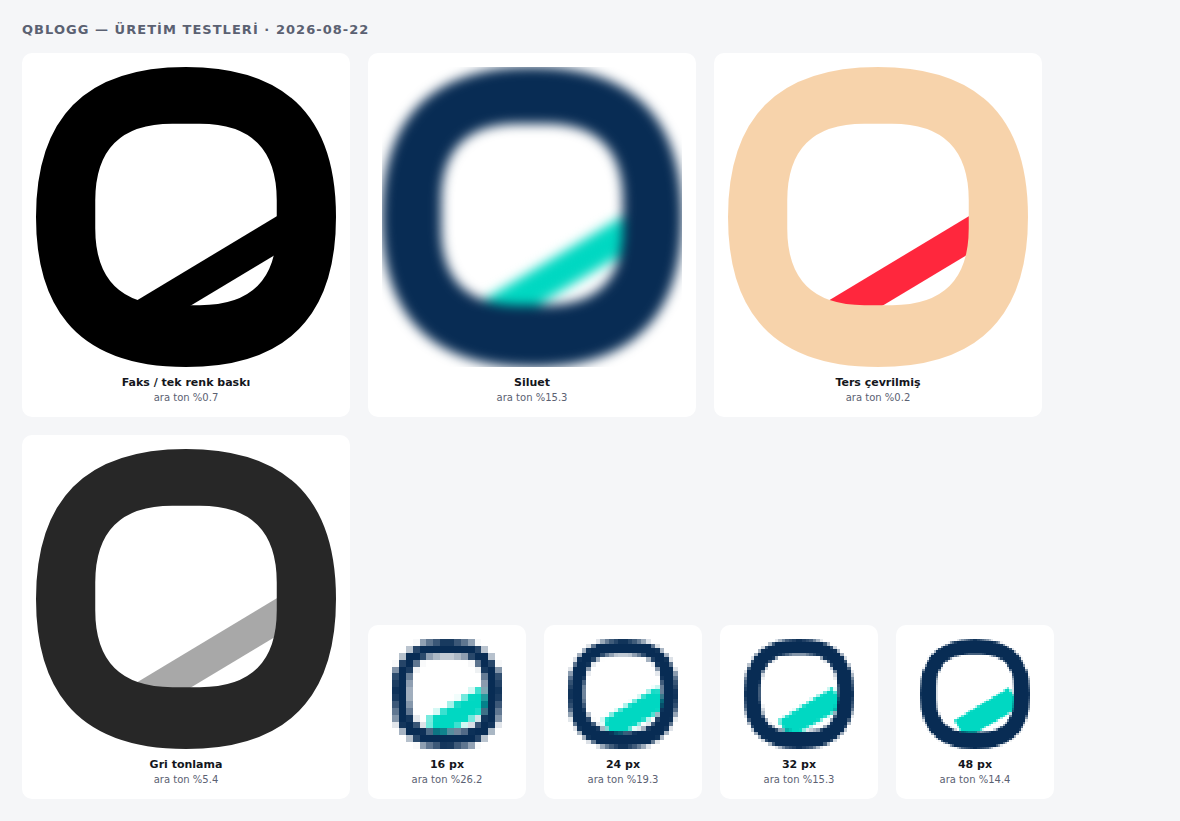
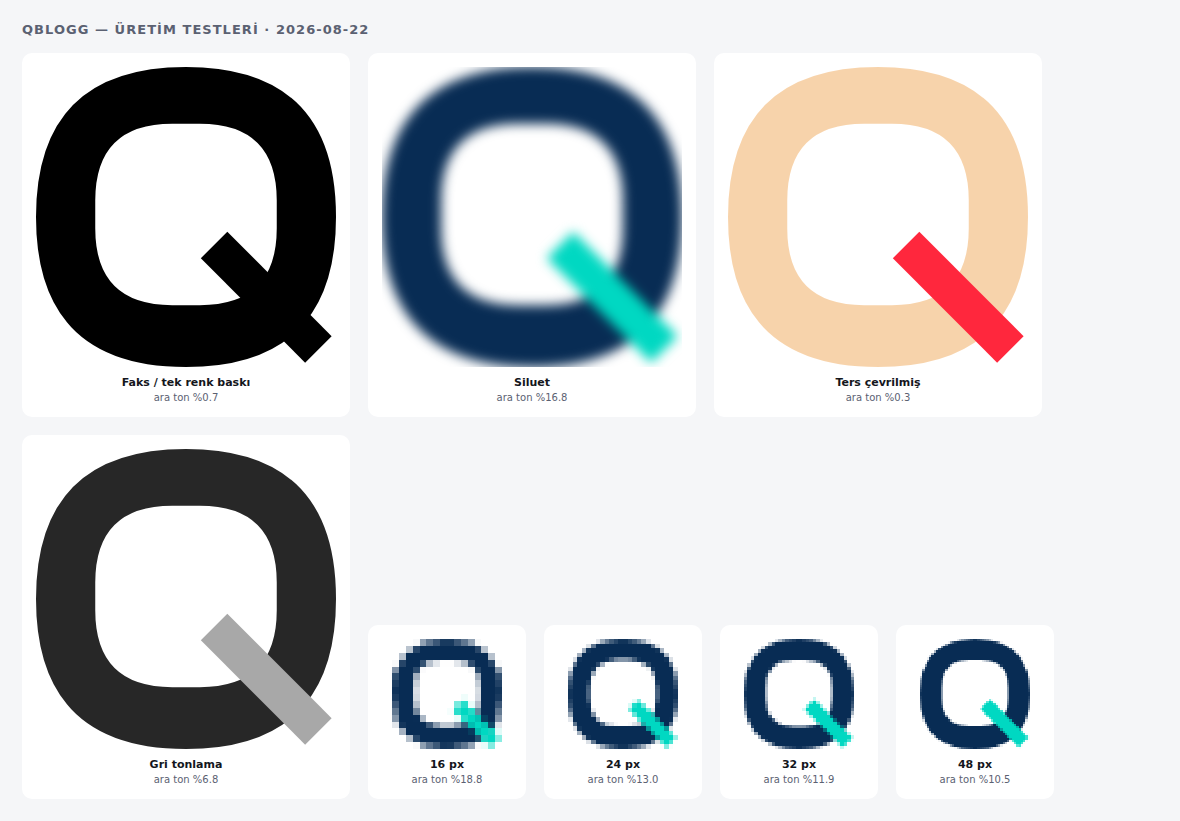
Q kuyruğu yeniden tasarlandı: kâseden çıkıyor, harf artık biçimden okunuyor
Projedeki en büyük geometri değişikliği. Gerekçesi ölçüm.

TEŞHİS. Üç bağımsız değerlendirme aynı yere işaret etti; ölçütü harf
biçimi tarafı verdi: "16 px'te, tek renk navy, aqua olmadan render al.
Orada Q değilse hiçbir yerde Q değildir." Uygulandı — aqua kaldırılınca
geriye DÜZ BİR O kalıyordu. Harf kimliğinin tamamı renk katmanındaydı.

Üç sonuç: (a) sayacı boydan boya kesen çubuk Ø okunuyordu — çizili O,
Norveççenin yaşayan harfi, Norveç merkezli marka için tesadüf değil;
(b) tek renk baskı, gravür, nakış ve tescilin siyah dosyası tam olarak
aqua'sız hâli kullanır; (c) mono varyantta köprü sayacın sağ alt yarısını
dolduran katı bir kamaya dönüşüyordu — mono, renkliyle aynı şekil değildi.

Kök sebep tekti: kuyruk kâseden hiç çıkmıyordu. Kalınlık ve yön
denemelerinin hepsi belirtiyi tedavi ediyordu.

YENİ GEOMETRİ. Kuyruk siluetin parçası: sayacın içinden başlar, dış
konturu 4:30 yönünde deler, 75u dışarı taşar. 45° · 100u · iç uç sayaç
kenarının %40'ı. Işın–poligon kesişimiyle çözüldü, elle tahmin değil.

Ölçülen kazanç (tek renk, 30-60° bandında siluetin kâseyi aşma oranı):
önceki kiriş 1,03/1,03/1,06 → yeni 1,24/1,24/1,24 (16/24/32 px). Sabit
oran, piksel tesadüfü değil. 31° adayı elendi: 1,09-1,12 ve sembolü
849x800'e genişletip kare kabulünü bozuyordu.

Sınır kutusu DEĞİŞMEDİ — kuyruk 888,4'te bitiyor, kâse zaten 900'e
gidiyor. Kilitler, boşluklar ve tescil zarfı yeniden türetilmedi.

YOL BOYUNCA ÜÇ HATA DAHA:
[…]

diff --git a/scripts/marka-uret.py b/scripts/marka-uret.py
@@ -56,29 +56,44 @@ OUT.mkdir(parents=True, exist_ok=True)
 SYM_NAVY = ("M500 100 Q900 100 900 500 Q900 900 500 900 Q100 900 100 500 Q100 100 500 100 Z "
             "M463 251 L537 251 Q742 251 742 456 L742 530 Q742 735 537 735 "
             "L463 735 Q258 735 258 530 L258 456 Q258 251 463 251 Z")
-SYM_AQUA = "M368.6 722.4 L412.9 796.1 L808.5 558.4 L764.2 484.7 Z"
+# --- Q kuyruğu. 22.08.2026'da yeniden tasarlandı.
+#
+# Önceki kuyruk sayacı boydan boya kesen bir KİRİŞTİ ve kâsenin dışına hiç
+# çıkmıyordu. Üç sonucu vardı, üçü de ölçüldü:
+#  (a) Sembol Q değil Ø okunuyordu — çizili O, Norveççenin yaşayan bir harfi.
+#      Norveç merkezli bir marka için bu tesadüfi benzerlik değil.
+#  (b) Harf kimliği tamamen RENK katmanındaydı: aqua kaldırılınca geriye düz
+#      bir O kalıyordu. Tek renk baskı, gravür, nakış ve tescilin siyah
+#      dosyası tam olarak o hâli kullanır.
+#  (c) Tek renk varyantında köprü sayacın sağ alt yarısını dolduran katı bir
+#      kamaya dönüşüyordu — yani mono varyant renkli varyantla aynı şekil
+#      bile değildi.
+#
+# Kuyruk artık siluetin parçası: sayacın içinden başlar, dış konturu saat
+# 4:30 yönünde deler ve 75u dışarı taşar. Harf renkten değil biçimden okunur.
+#
+# Sayısal çözüm (ışın–poligon kesişimi, elle tahmin değil):
+#   açı 45° · kalınlık 100u · iç uç sayaç kenarının %40'ında · taşma 75u
+#   Her iki uç da KÂSE merkezinden (500·500) ışınlanır. Önce iç uç sayaç
+#   merkezinden (500·493) alınmıştı; iki ışın paralel ama 7u kaymış olduğu
+#   için birleştiren doğru 45,7° çıkıyordu. Tek merkez → tam 45,00°.
+#   sayaç kenarı 264,6u → iç uç (574,9 · 574,9)
+#   dış kontur  424,3u → uç    (853,0 · 853,0)
+# Ölçülen kazanç (tek renk, 30-60° bandında siluetin kâseyi aşma oranı):
+#   önceki 1,03/1,03/1,06 → yeni 1,24/1,24/1,24 (16/24/32 px)
+# Sınır kutusu DEĞİŞMEDİ: kuyruk 888,4'te bitiyor, kâse zaten 900'e gidiyor.
+SYM_AQUA = "M610.2 539.5 L539.5 610.2 L817.7 888.4 L888.4 817.7 Z"
 
-# --- küçük boy ikonu (16-32 px). Bir önceki sürüm köprüyü 86u'dan 100u'ya
-# kalınlaştırıyordu ve gerekçesi "16 px'te ayakta kalsın" idi. 22.08.2026'da
-# ölçüldü: 16 px'te iki varyant arasındaki fark **tek piksel** (aqua 24 vs 25).
-# 16 px'te 1 CSS pikseli 62,5 birim; 14 birimlik kalınlaşma 0,22 piksel demek.
-# Yani varyantın gerekçesi sayısal olarak boştu.
+# --- küçük boy ikonu: artık sembolün AYNISI.
 #
-# Kalınlığı artırmak da çözmüyor: 86u -> 190u (%121) yalnızca 19 -> 25 piksel
-# veriyor ve büyük boyda şekli hantallaştırıyor. Okunurluğu taşıyan öğe köprü
-# değil **sayaç** — "bu delikli bir harf" mesajını o veriyor.
-#
-# Bu yüzden küçük boy varyantı iki eksende birden değişti: sayaç merkez
-# etrafında 1,16 katına ölçeklendi (yan şerit 158u -> 119u) ve köprü 160u'ya
-# çıktı. 16 px'te ölçülen kazanç: sayaç 135 -> 143 piksel, aqua 19 -> 28 (%47).
-# Aqua çubuk artık halkayı sol altta gerçekten kesip çıkıyor; Q'yu O'dan ayıran
-# şey bu. Ana sembol DEĞİŞMEDİ — kilitler, tescil dosyaları ve belgedeki
-# ölçüler ona bağlı.
-ICON_NAVY = ("M500 100 Q900 100 900 500 Q900 900 500 900 Q100 900 100 500 Q100 100 500 100 Z "
-             "M457.1 212.3 L542.9 212.3 Q780.7 212.3 780.7 450.1 L780.7 535.9 "
-             "Q780.7 773.7 542.9 773.7 L457.1 773.7 Q219.3 773.7 219.3 535.9 "
-             "L219.3 450.1 Q219.3 212.3 457.1 212.3 Z")
-ICON_AQUA = "M349.6 690.7 L431.9 827.8 L827.6 590.1 L745.1 453.0 Z"
+# Ayrı bir varyantın gerekçesi kuyruk sayacın içindeyken vardı: köprü 16 px'te
+# kayboluyordu, bu yüzden sayaç büyütülüp köprü kalınlaştırılmıştı. Kuyruk
+# kâsenin dışına çıkınca o gerekçe düştü — harfi artık siluet taşıyor ve
+# siluet her boyda aynı. İki geometriyi ayrı tutmak yalnızca R01 sınıfı
+# hatalar üretiyordu (biri güncellenip diğeri unutuluyordu; bu oturumda iki
+# kez oldu). Tek kaynak daha güvenli.
+ICON_NAVY = SYM_NAVY
+ICON_AQUA = SYM_AQUA
 
 # --- wordmark ana hatları
 font = instantiateVariableFont(TTFont(FONT), {'wght': 700}, inplace=True)
@@ -155,8 +170,11 @@ def svg(vb, body, w=None, h=None):
             f'role="img" aria-label="QBLOGG">\n{body}\n</svg>\n')
 
 def sym(navy=NAVY, aqua=AQUA):
-    a = f'  <path d="{SYM_AQUA}" fill="{aqua}"/>\n' if aqua else ''
-    return a + f'  <path fill-rule="evenodd" d="{SYM_NAVY}" fill="{navy}"/>'
+    """Kâse önce, kuyruk ÜSTÜNE. Sıra kritik: eski kirişte aqua altta çiziliyordu
+    ve halka onu örttüğü için çubuk yalnızca sayacın içinde görünüyordu — Ø
+    okumasının kaynağı buydu. Kuyruk artık dışarı taştığı için üstte olmalı."""
+    k = f'  <path fill-rule="evenodd" d="{SYM_NAVY}" fill="{navy}"/>'
+    return k + (f'\n  <path d="{SYM_AQUA}" fill="{aqua}"/>' if aqua else '')
 
 VB = '100 100 800 800'
 w = {}
@@ -167,8 +185,8 @@ w['qblogg-symbol-white.svg']    = svg(VB, sym('#FFFFFF', '#FFFFFF'))
 w['qblogg-symbol-reverse.svg']  = svg('0 0 1000 1000',
     f'  <rect width="1000" height="1000" rx="190" fill="{NAVY}"/>\n' + sym('#FFFFFF', AQUA))
 w['qblogg-icon-small.svg'] = svg(VB,
-    f'  <path d="{ICON_AQUA}" fill="{AQUA}"/>\n'
-    f'  <path fill-rule="evenodd" d="{ICON_NAVY}" fill="{NAVY}"/>', 24, 24)
+    f'  <path fill-rule="evenodd" d="{ICON_NAVY}" fill="{NAVY}"/>\n'
+    f'  <path d="{ICON_AQUA}" fill="{AQUA}"/>', 24, 24)
 
 R = 1024 / 1000 * 0.78
 w['qblogg-icon-app.svg'] = svg('0 0 1024 1024',
@@ -181,8 +199,8 @@ w['qblogg-icon-app.svg'] = svg('0 0 1024 1024',
     # background layer, make sure it's full-bleed and opaque."
     f'  <rect width="1024" height="1024" fill="{NAVY}"/>\n'
     f'  <g transform="translate(113.6 113.6) scale({R:.5f})">\n'
-    f'    <path d="{ICON_AQUA}" fill="{AQUA}"/>\n'
-    f'    <path fill-rule="evenodd" d="{ICON_NAVY}" fill="#FFFFFF"/>\n  </g>', 1024, 1024)
+    f'    <path fill-rule="evenodd" d="{ICON_NAVY}" fill="#FFFFFF"/>\n'
+    f'    <path d="{ICON_AQUA}" fill="{AQUA}"/>\n  </g>', 1024, 1024)
 
 GAP_H, GAP_V = 0.36 * 800, 0.32 * 800          # 288u ve 256u
 def lockup_h(navy):
@@ -350,7 +368,10 @@ def _ikon_uret(ad, boy):
         for p in range(boy):
             a = min(1.0, zemin[s][p])
             renk = NV
-            for ust, ustrenk in ((aqua[s][p], AQ), (halka[s][p], BZ)):
+            # Sıra: halka önce, kuyruk ÜSTÜNE — SVG'lerdeki sırayla aynı.
+            # Ters olursa kuyruğun kâse dışına taşan kısmı halka tarafından
+            # örtülür ve PNG, SVG'den farklı çıkar.
+            for ust, ustrenk in ((halka[s][p], BZ), (aqua[s][p], AQ)):
                 o = min(1.0, ust)
                 if o > 0:
                     renk = tuple(round(r * (1 - o) + u * o) for r, u in zip(renk, ustrenk))
@@ -382,7 +403,7 @@ _ROL = {
     'qblogg-lockup-stacked.svg': 'Dikey kilit',
     'qblogg-lockup-stacked-white.svg': 'Dikey kilit, koyu zemin',
     'qblogg-icon-app.svg': '1024×1024 uygulama ikonu — köprü 100u',
-    'qblogg-icon-small.svg': '16–32 px ikon — köprü 100u',
+    'qblogg-icon-small.svg': '16–32 px ikon — sembolle aynı geometri',
     'favicon-32.png': 'Tarayıcı sekmesi, 32×32 — app ikonundan',
     'apple-touch-icon.png': 'iOS ana ekran, 180×180 — app ikonundan',
 }

diff --git a/scripts/marka-dogrula.py b/scripts/marka-dogrula.py
@@ -139,35 +139,89 @@ else:
         kontrol(f'{f.name} özeti KAYNAK.md ile aynı', ozet,
                 ozet if ozet in kayit else 'kayıtta yok')
 
-# --- küçük boy varyantı: sabitler belgedeki parametrelerden türetilebilmeli ---
-# ICON_AQUA, sembol köprüsünün merkez çizgisi üzerinde T=160u simetrik bar;
-# ICON_NAVY'nin sayacı, sembol sayacının (500, 493) etrafında k=1,16 ölçeklisi.
-# Biri elle kurcalanırsa burası kırmızıya döner.
-A, B, PX, PY = (390.75, 759.25), (786.35, 521.55), 0.515, 0.857
+# --- Q kuyruğu: sabit, belgedeki parametrelerden yeniden türetilebilmeli ---
+# Kuyruk elle yazılmadı; dış kâse ve sayaç poligona düzleştirilip 45° ışınla
+# kesiştirilerek çözüldü. Aynı çözüm burada tekrarlanıp sabitle karşılaştırılır.
+# Parametreler docs/logo-sistemi.md'de yazılı: 45° · 100u · iç uç %40 · taşma 75u.
+ACI, KALINLIK, IC_ORAN, TASMA = 45.0, 100.0, 0.40, 75.0
 
 
-def _bar(T):
-    h = T / 2.0
-    q = [(A[0] - h * PX, A[1] - h * PY), (A[0] + h * PX, A[1] + h * PY),
-         (B[0] + h * PX, B[1] + h * PY), (B[0] - h * PX, B[1] - h * PY)]
-    return [round(v, 1) for pt in q for v in pt]
+def _quad(p0, p1, p2, n=24):
+    return [((1 - t) ** 2 * p0[0] + 2 * (1 - t) * t * p1[0] + t * t * p2[0],
+             (1 - t) ** 2 * p0[1] + 2 * (1 - t) * t * p1[1] + t * t * p2[1])
+            for t in (i / n for i in range(1, n + 1))]
 
 
-def _sayac(k):
-    pts = [(463, 251), (537, 251), (742, 251), (742, 456), (742, 530), (742, 735),
-           (537, 735), (463, 735), (258, 735), (258, 530), (258, 456), (258, 251)]
-    return [round(v, 1) for x, y in pts
-            for v in ((x - 500.0) * k + 500.0, (y - 493.0) * k + 493.0)]
+def _poligon(dugum):
+    pts = [dugum[0]]
+    for tip, *arg in dugum[1:]:
+        if tip == 'L':
+            pts.append(arg[0])
+        else:
+            pts += _quad(pts[-1], arg[0], arg[1])
+    return pts
 
 
+_DIS = _poligon([(500, 100), ('Q', (900, 100), (900, 500)), ('Q', (900, 900), (500, 900)),
+                 ('Q', (100, 900), (100, 500)), ('Q', (100, 100), (500, 100))])
+_SAY = _poligon([(463, 251), ('L', (537, 251)), ('Q', (742, 251), (742, 456)),
+                 ('L', (742, 530)), ('Q', (742, 735), (537, 735)), ('L', (463, 735)),
+                 ('Q', (258, 735), (258, 530)), ('L', (258, 456)), ('Q', (258, 251), (463, 251))])
+
+
+def _isin(poly, o, d, uzak=900.0):
+    """o'dan d yönünde giden ışının poligonu kestiği en uzak mesafe."""
+    best = None
+    for i in range(len(poly)):
+        a, b = poly[i], poly[(i + 1) % len(poly)]
+        ex, ey = b[0] - a[0], b[1] - a[1]
+        den = d[0] * ey - d[1] * ex
+        nd = ex * d[1] - ey * d[0]
+        if abs(den) < 1e-9 or abs(nd) < 1e-9:
+            continue
+        t = ((a[0] - o[0]) * ey - (a[1] - o[1]) * ex) / den
+        u = ((o[0] - a[0]) * d[1] - (o[1] - a[1]) * d[0]) / nd
+        if 0 <= u <= 1 and 0 < t <= uzak and (best is None or t > best):
+            best = t
+    return best
+
+
+def _kuyruk():
+    a = math.radians(ACI)
+    d = (math.cos(a), math.sin(a))
+    ts = _isin(_SAY, (500.0, 500.0), d)
+    td = _isin(_DIS, (500.0, 500.0), d)
+    ic = (500.0 + d[0] * ts * IC_ORAN, 500.0 + d[1] * ts * IC_ORAN)
+    ds = (500.0 + d[0] * (td + TASMA), 500.0 + d[1] * (td + TASMA))
+    px, py = -d[1], d[0]
+    h = KALINLIK / 2
+    q = [(ic[0] - h * px, ic[1] - h * py), (ic[0] + h * px, ic[1] + h * py),
+         (ds[0] + h * px, ds[1] + h * py), (ds[0] - h * px, ds[1] - h * py)]
+    return [round(v, 1) for pt in q for v in pt], ts, td
+
+
+_beklenen, _ts, _td = _kuyruk()
 SY_AQUA = re.search(r'SYM_AQUA = "([^"]*)"', src).group(1)
-IC_AQUA = re.search(r'ICON_AQUA = "([^"]*)"', src).group(1)
-IC_NAVY = ''.join(re.findall(r'"([^"]*)"', re.search(r'ICON_NAVY = \((.*?)\)\n', src, re.S).group(1)))
-kontrol('sembol köprüsü T=86 formülden türüyor', sayilar(SY_AQUA), _bar(86))
-kontrol('küçük boy köprüsü T=160', sayilar(IC_AQUA), _bar(160))
-kontrol('küçük boy sayacı k=1,16', sayilar(IC_NAVY[IC_NAVY.index('M457'):])[:24], _sayac(1.16))
-kontrol('küçük boy halkası sembolle aynı dış kâse',
-        sayilar(SYM[:i]), sayilar(IC_NAVY[:IC_NAVY.index('M457')]))
+kontrol('kuyruk belgedeki parametrelerden türüyor', sayilar(SY_AQUA), _beklenen)
+kontrol('sayaç kenarı 45° ışında', 264.6, round(_ts, 1))
+kontrol('dış kontur 45° ışında', 424.3, round(_td, 1))
+
+# Kuyruk gerçekten dışarı taşıyor mu — Ø değil Q olmasının şartı.
+_uc = max((x - 500.0) ** 2 + (y - 500.0) ** 2
+          for x, y in zip(sayilar(SY_AQUA)[0::2], sayilar(SY_AQUA)[1::2])) ** 0.5
+kontrol('kuyruk dış konturu aşıyor (Q şartı)', 'evet', 'evet' if _uc > _td else 'HAYIR')
+
+# Küçük boy ikonu artık sembolün aynısı — iki geometri ayrı tutulunca
+# bu oturumda iki kez R01 sınıfı hata doğdu (köprü, sonra halka).
+kontrol('ICON_AQUA sembolle tek kaynak', 'SYM_AQUA',
+        'SYM_AQUA' if re.search(r'ICON_AQUA = SYM_AQUA', src) else 'ayrışmış')
+kontrol('ICON_NAVY sembolle tek kaynak', 'SYM_NAVY',
+        'SYM_NAVY' if re.search(r'ICON_NAVY = SYM_NAVY', src) else 'ayrışmış')
+
+# Uygulama ikonunun zemini tam kare olmalı (HIG: full-bleed and opaque).
+_app = (MARKA / 'qblogg-icon-app.svg').read_text(encoding='utf-8')
+kontrol('app ikonu zemini yuvarlatılmamış', 'rx yok',
+        'rx yok' if 'rx=' not in _app.split('<g')[0] else 'rx var')
 
 print('QBLOGG marka ölçü doğrulaması')
 print('─' * 62)

diff --git a/docs/logo-sistemi.md b/docs/logo-sistemi.md
@@ -28,12 +28,12 @@ Reality Board) · `docs/gorseller/logo-aday-karsilastirma.png` (aday elemesi).
 | Sayaç | 484×484, yumuşak-köşeli (r=205) | ≥330, daire/kare değil ✓ |
 | Sayaç merkezi | 7u yukarıda | 10–15 ✗ (2 birim; üst şerit 150'nin altına düşmesin diye) |
 | Sağ-alt optik telafi | +%4,4 (alt şerit / yan şerit) | 4–6 ✓ |
-| Köprü açısı | 31° | 28–34 ✓ |
-| Köprü genişliği | 86u | şerit ±%5 ✗ **gevşetildi** |
-| Köprü uzunluğu | 461,5u | 235–270 ✗ **gevşetildi** |
-| Köprü konumu | normal 59° (≈4:50) | ≈4:30 ~ |
+| Köprü açısı | 45° | 28–34 ✗ **kasıtlı** — kanonik Q açısı |
+| Köprü genişliği | 100u | şerit ±%5 ✗ **gevşetildi** |
+| Köprü uzunluğu | 393,4u | 235–270 ✗ **gevşetildi** |
+| Köprü konumu | 4:30 | ≈4:30 ✓ |
 | Örtüşme kesimi | tam 2 adet | 2 ✓ |
-| Köprü siluetin içinde | evet, dış kuyruk yok | ✓ |
+| Köprü siluetin içinde | **hayır — 75u dışarı taşıyor** | brief "dış kuyruk yok" diyordu ✗ **kasıtlı** |
 | Yol yapısı | 1 kapalı navy (evenodd) + 1 kapalı aqua | ✓ |
 | Gradyan / gölge / maske / kontur / raster | 0 / 0 / 0 / 0 / 0 | ✓ |
 | Renk | yalnızca `#082C54` ve `#00D8C2` | ✓ |
@@ -278,6 +278,90 @@ Kalan 94 piksel iki rasterleştiricinin kenar yumuşatma farkıdır; değişikli
 > kullanıldı ve bu ölçüt iki geometriyi **ayırt edemedi** — hatalı hâl
 > düzeltilmiş hâlden daha iyi göründü. Toplam sayımlar yer değiştiren pikselleri
 > görmez. Piksel piksel karşılaştırmaya geçildi.
+
+## Q kuyruğu yeniden tasarlandı — 22.08.2026
+
+Bu, projedeki en büyük geometri değişikliği. Gerekçesi ölçümdür.
+
+### Teşhis
+
+Üç bağımsız değerlendirme (harf biçimi, marka anlamı, üretim) aynı yere
+işaret etti. Ölçütü harf biçimi uzmanı verdi:
+
+> *"16 px'te, tek renk navy, aqua olmadan render alın. Orada Q değilse hiçbir
+> yerde Q değildir."*
+
+Uygulandı. Aqua kaldırılınca geriye **düz bir O** kalıyordu. Yani harf
+kimliğinin tamamı renk katmanındaydı.
+
+Üç sonuç, üçü de ölçüldü:
+
+1. **Ø okuması.** Sayacı boydan boya kesen çubuk, Latin alfabesinde yerleşik
+   bir işarettir: çizili O, çizili sıfır ve **Norveççe/Danca ø**. Norveç
+   merkezli bir marka için tesadüfi benzerlik değil.
+2. **Renk bağımlılığı.** Tek renk baskı, gravür, nakış ve tescilin siyah
+   dosyası tam olarak aqua'sız hâli kullanır.
+3. **Mono varyant farklı şekildi.** `qblogg-symbol-black.svg`'de köprü,
+   sayacın sağ alt yarısını dolduran katı bir kamaya dönüşüyordu — mono
+   varyant renkli varyantla aynı şekil bile değildi.
+
+Kök sebep tekti: **kuyruk kâseden hiç çıkmıyordu.** Kalınlık ve yön
+denemelerinin hepsi belirtiyi tedavi ediyordu.
+
+### Yeni geometri
+
+Kuyruk artık siluetin parçası: sayacın içinden başlar, dış konturu 4:30
+yönünde deler, 75u dışarı taşar.
+
+| Parametre | Değer | Nasıl bulundu |
+|---|---|---|
+| Açı | 45° | Kanonik Q açısı; 31° de denendi, elendi |
+| Kalınlık | 100u | Şerit 158u'nun %63'ü |
+| İç uç | sayaç kenarının %40'ı | Sol duvara değmiyor — Ø okumasını kıran şey bu |
+| Merkez | ikisi de kâse merkezi (500·500) | İç uç sayaç merkezinden alınınca açı 45,7° çıkıyordu |
+| Taşma | 75u | Dış kontur 424,3u → uç 499,3u |
+| İç uç | (574,9 · 574,9) | Işın–poligon kesişimi |
+| Dış uç | (853,0 · 853,0) | Aynı |
+
+Sayısal çözüm elle tahmin değil: dış kâse ve sayaç poligona düzleştirilip
+45° ışınla kesiştirildi.
+
+### Ölçülen kazanç
+
+Tek renk render, 30–60° bandında siluetin kâse konturunu aşma oranı:
+
+| | 16 px | 24 px | 32 px |
+|---|---|---|---|
+| Önceki kiriş | 1,03 | 1,03 | 1,06 |
+| 31° kuyruk (elendi) | 1,09 | 1,10 | 1,12 |
+| **45° kuyruk** | **1,24** | **1,24** | **1,24** |
+
+1,24 üç boyutta da sabit — piksel tesadüfü değil, yapısal aşma. 31° adayı
+ayrıca sembolü genişletiyordu (849×800), kare kabulünü bozuyordu.
+
+**Sınır kutusu değişmedi:** kuyruk 888,4'te bitiyor, kâse zaten 900'e gidiyor.
+Kilitler, boşluklar ve tescil zarfı yeniden türetilmeden çalışıyor.
+
+### Brief'ten beşinci sapma
+
+`docs/marka-testleri.md` "köprü siluetin içinde, dış kuyruk yok" diyordu. Bu
+madde **bilinçli olarak terk edildi** — maddenin kendisi Ø okumasının
+kaynağıydı. Diğer dört sapma aşağıda kayıtlı.
+
+### Yan etki: küçük boy varyantı sadeleşti
+
+`qblogg-icon-small.svg` artık sembolün aynısı. Ayrı varyantın gerekçesi
+kuyruk sayacın içindeyken vardı; kuyruk dışarı çıkınca harfi siluet taşıyor
+ve siluet her boyda aynı. İki geometriyi ayrı tutmak yalnızca R01 sınıfı
+hata üretiyordu — bu oturumda iki kez oldu (köprü, sonra halka).
+
+### Çizim sırası kritik
+
+Eski kirişte aqua **altta** çiziliyordu ve halka onu örtüyordu; çubuk yalnızca
+sayacın içinde görünüyordu — Ø okumasının doğrudan kaynağı buydu. Kuyruk artık
+dışarı taştığı için **üstte** çizilmeli. Dört yerde düzeltildi: `sym()`,
+`icon-small`, `icon-app` ve PNG birleştirmesi. Sonuncusu 180 px'te SVG ile
+PNG karşılaştırılarak doğrulandı: fark >32 olan piksel %0,2 (kenar yumuşatma).
 
 ## Kalan üretim notları
 

diff --git a/assets/brand/MANIFEST.md b/assets/brand/MANIFEST.md
@@ -8,18 +8,18 @@ değişikliğin kaynağı bulunmalıdır.
 
 | Dosya | Rol | Bayt | SHA-256 |
 |---|---|---:|---|
-| `apple-touch-icon.png` | iOS ana ekran, 180×180 — app ikonundan | 3.907 | `52fc70a8b1aeacec` |
-| `favicon-32.png` | Tarayıcı sekmesi, 32×32 — app ikonundan | 808 | `d5be592d549a3d46` |
-| `qblogg-icon-app.svg` | 1024×1024 uygulama ikonu — köprü 100u | 627 | `3151d9723a30bbd4` |
-| `qblogg-icon-small.svg` | 16–32 px ikon — köprü 100u | 506 | `ca6023183cb40b72` |
-| `qblogg-lockup-horizontal-white.svg` | Yatay kilit, koyu zemin | 10.501 | `0518d08f919846ce` |
-| `qblogg-lockup-horizontal.svg` | Yatay kilit (sembol + wordmark) | 10.501 | `c8a33a863d2c8725` |
-| `qblogg-lockup-stacked-white.svg` | Dikey kilit, koyu zemin | 10.510 | `5fb13e7b381f7d51` |
-| `qblogg-lockup-stacked.svg` | Dikey kilit | 10.510 | `f5670c15f434f42b` |
-| `qblogg-symbol-black.svg` | Sembol, tek renk siyah — faks/gravür | 431 | `81b80047d74472e5` |
-| `qblogg-symbol-navy.svg` | Sembol, tek renk navy | 431 | `7de0308b0089b8e4` |
-| `qblogg-symbol-reverse.svg` | Koyu zeminde, yuvarlatılmış alan | 490 | `5d58ce89df0ddb56` |
-| `qblogg-symbol-white.svg` | Sembol, tek renk beyaz | 431 | `cef0ccdee4846e2f` |
-| `qblogg-symbol.svg` | Ana sembol, tam renk — birincil varlık | 431 | `a555521b6ab4e74d` |
+| `apple-touch-icon.png` | iOS ana ekran, 180×180 — app ikonundan | 3.196 | `4552ccf1f9e2969a` |
+| `favicon-32.png` | Tarayıcı sekmesi, 32×32 — app ikonundan | 740 | `e31d63378d480303` |
+| `qblogg-icon-app.svg` | 1024×1024 uygulama ikonu — köprü 100u | 575 | `7269da8c8bc0dfd1` |
+| `qblogg-icon-small.svg` | 16–32 px ikon — sembolle aynı geometri | 454 | `23f2e4f81c769e94` |
+| `qblogg-lockup-horizontal-white.svg` | Yatay kilit, koyu zemin | 10.501 | `e3fc218892792eb6` |
+| `qblogg-lockup-horizontal.svg` | Yatay kilit (sembol + wordmark) | 10.501 | `968e44e1901a9f76` |
+| `qblogg-lockup-stacked-white.svg` | Dikey kilit, koyu zemin | 10.510 | `1ba42fe6dcd7125b` |
+| `qblogg-lockup-stacked.svg` | Dikey kilit | 10.510 | `d12d2f16af4defb6` |
+| `qblogg-symbol-black.svg` | Sembol, tek renk siyah — faks/gravür | 431 | `b253e71211c1ad3a` |
+| `qblogg-symbol-navy.svg` | Sembol, tek renk navy | 431 | `ffefe3f0d673dbdb` |
+| `qblogg-symbol-reverse.svg` | Koyu zeminde, yuvarlatılmış alan | 490 | `3d45f946d6568c27` |
+| `qblogg-symbol-white.svg` | Sembol, tek renk beyaz | 431 | `7df54b805185b728` |
+| `qblogg-symbol.svg` | Ana sembol, tam renk — birincil varlık | 431 | `7f36437266f3c0c3` |
 
 Klasörde manifesto dışı dosya yok.
